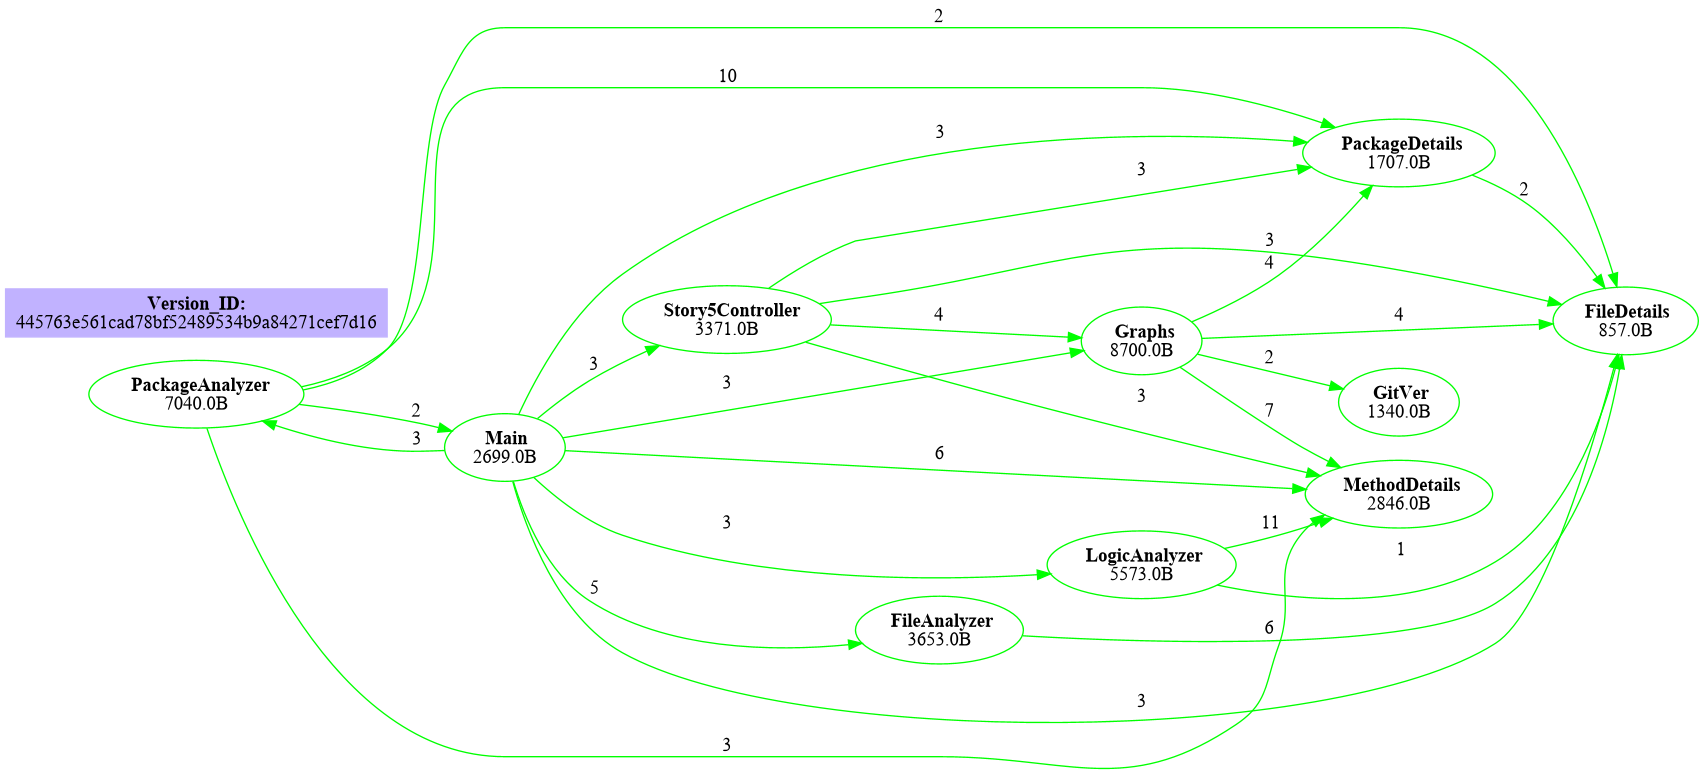
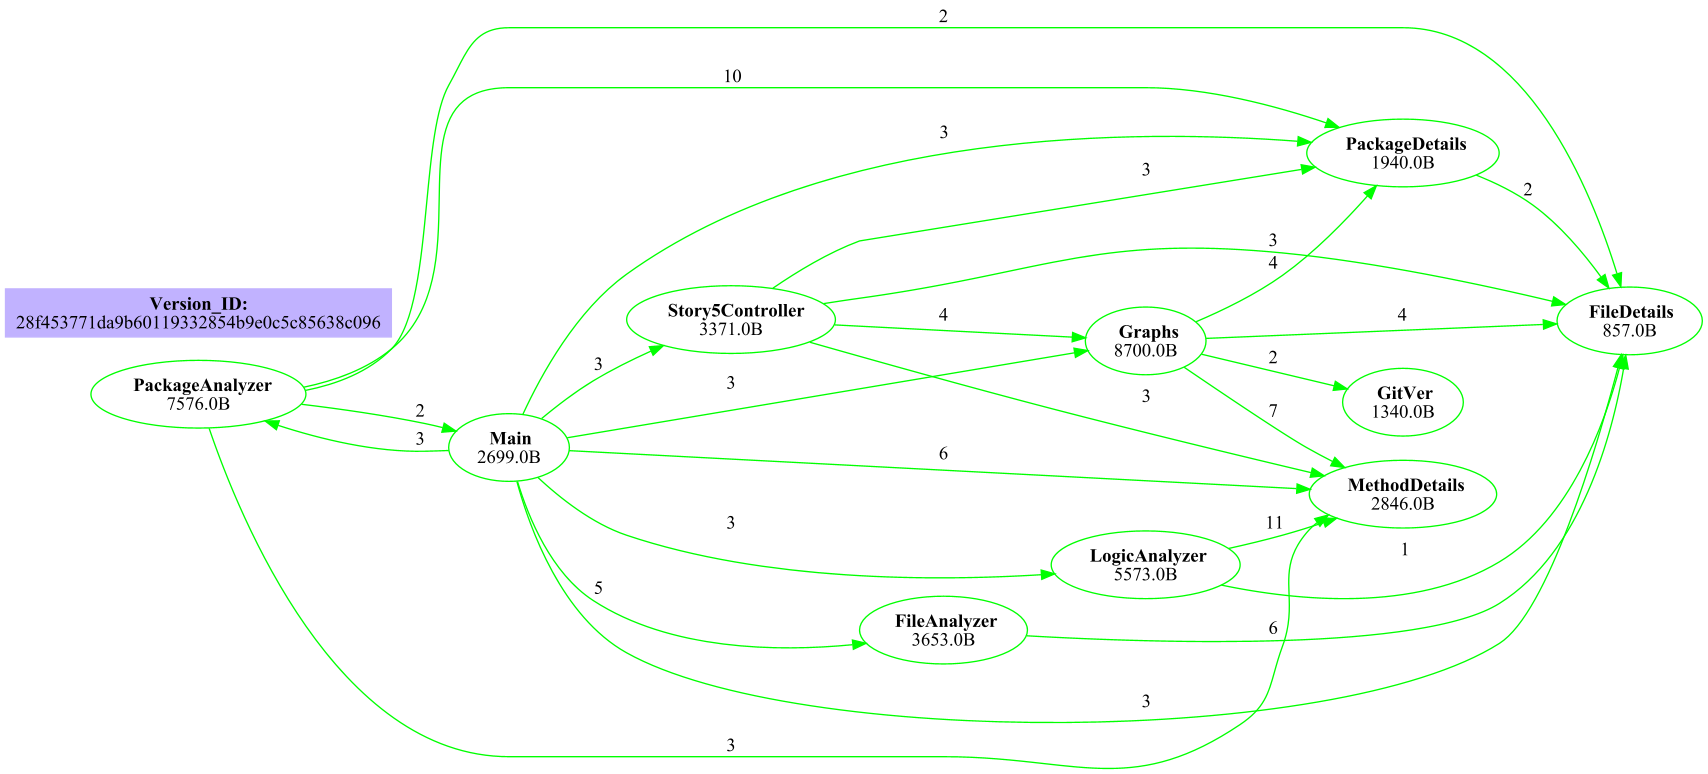
Finishing packages logic + merge. Fixed older errors created in-progress 3.3. FilesToMethodAnalysis branch.

diff --git a/src/main/java/com/IOgroup/fileAnalysis/PackageAnalyzer.java b/src/main/java/com/IOgroup/fileAnalysis/PackageAnalyzer.java
@@ -112,7 +112,7 @@ public class PackageAnalyzer {
 
         for (MethodDetails methodDetails : methodDetailsList) {
 
-             //Setting temporary var to specific package
+            //Setting temporary var to specific package
 
             int packageCallCounter = 0;
             HashMap<String, HashMap<String, Integer>> methodDependencies = new HashMap<>();
@@ -133,15 +133,20 @@ public class PackageAnalyzer {
 
                 //Adding callcounter, calculating and updating method dependencies
                 //method_of_A_Package -> B_package binding
-
+                //Dependencies set
                 Map.Entry pair = (Map.Entry) it.next();
-                tmpHashMap.put(findPackageByFunctionName(pair.getKey().toString()), Integer.parseInt(pair.getValue().toString()));
-                methodDependencies.put(methodDetails.getMethodName(), tmpHashMap);
+                if (!findPackageByFunctionName(pair.getKey().toString()).equals(packageDetailsTemp.getPackageName())) {
+                    tmpHashMap.put(findPackageByFunctionName(pair.getKey().toString()), Integer.parseInt(pair.getValue().toString()));
+                    methodDependencies.put(methodDetails.getMethodName(), tmpHashMap);
+                }
+
+                //Updating callcounter
                 if (packageDetailsTemp.getPackageName() != null)
                     updatePackageCallCounter(Integer.parseInt(pair.getValue().toString()),
                             findPackageByFunctionName(pair.getKey().toString()));
 
             }
+            //Setting variables to data structure
             packageDetailsTemp.setMethodDependencies(methodDependencies);
             packageDetailsTemp.updateCallCounter(packageCallCounter);
         }
@@ -157,6 +162,7 @@ public class PackageAnalyzer {
     private static void bindPackageToPackage() {
         for (PackageDetails packageDetails : packageDetailsList) {
             HashMap<String, Integer> tmpHash = new HashMap<>();
+            HashMap<String, Integer> tmpHash2 = new HashMap<>();
             Iterator it;
             it = packageDetails.getMethodDepedencies().entrySet().iterator();
             while (it.hasNext()) {
@@ -168,11 +174,14 @@ public class PackageAnalyzer {
                     Map.Entry pairInt = (Map.Entry) interIt.next();
                     if (pairInt.getKey().toString().equals(packageDetails.getPackageName())) continue;
                     incrementHashMapValueByKey(pairInt.getKey().toString(), Integer.parseInt(pairInt.getValue().toString()), tmpHash);
+                    incrementHashMapValueByKey(pair.getKey().toString(),Integer.parseInt(pairInt.getValue().toString()),tmpHash2);
                 }
             }
             packageDetails.setPackageDependencies(tmpHash);
+            packageDetails.setMethodToThisPackage(tmpHash2);
         }
     }
+
 }
 
 

diff --git a/src/main/java/com/IOgroup/model/PackageDetails.java b/src/main/java/com/IOgroup/model/PackageDetails.java
@@ -19,6 +19,12 @@ public class PackageDetails {
     private int callCounter=0;
     private HashMap<String, Integer> packageDependencies=new HashMap<>();
     private HashMap<String, HashMap<String,Integer>> methodDependencies= new HashMap<>();
+    private HashMap<String, Integer> methodToThisPackage = new HashMap<>();
+
+    public void setMethodToThisPackage(HashMap<String, Integer> methodToThisPackage) {
+        this.methodToThisPackage = methodToThisPackage;
+    }
+
     private List<FileDetails> classes=new ArrayList<>();
     private Path pathToPackage;
 
